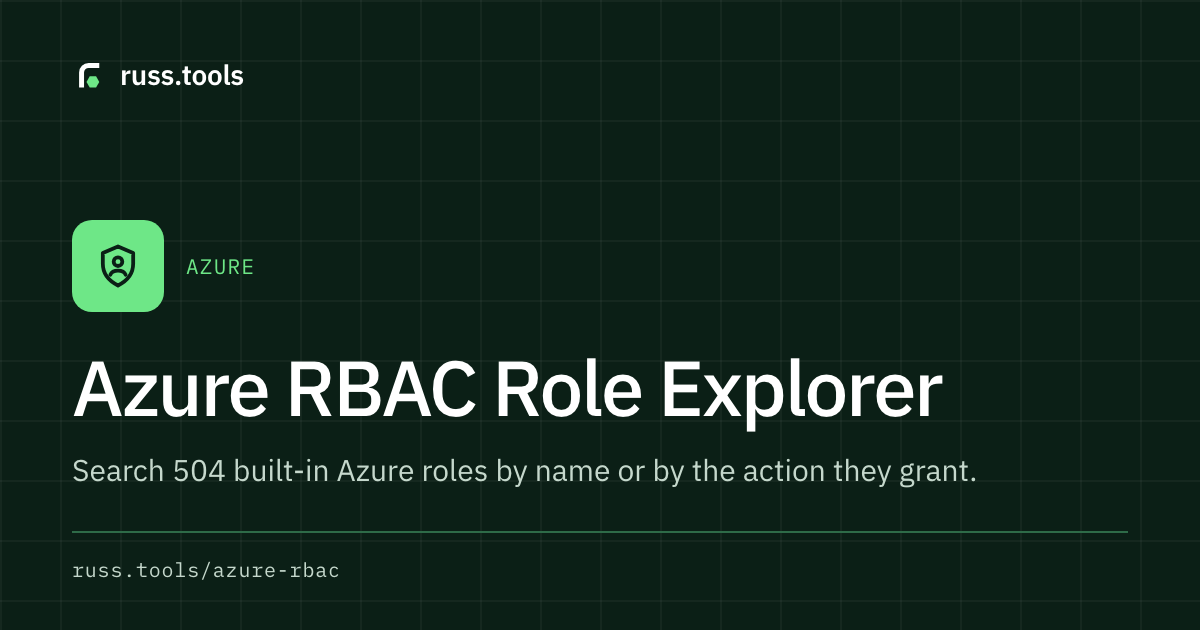
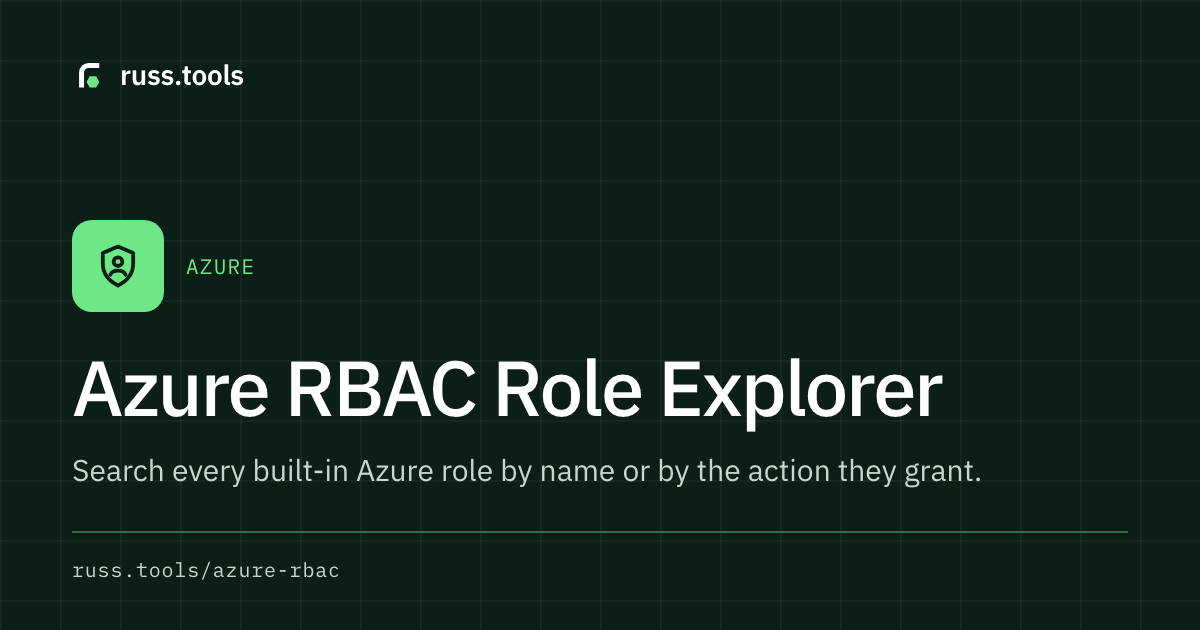
🔄 feat(data): refresh the bundled datasets weekly
- `pnpm refresh:all` runs every `refresh:*` script found in package.json.
  A script that fails has its writes under `src/data` put back and the
  rest carry on.
- `.github/workflows/refresh-data.yml` runs it on Mondays, regenerates
  the derived tables, and if anything changed builds, tests and lints
  the tree and opens or updates a pull request on `chore/data-refresh`.
- The help pages for Azure Regions, RBAC, Service Tags and M365 Licences
  no longer tell visitors to run pnpm or list repository paths. The
  regions source list moved to that tool's implementation notes.
- The RBAC manifest no longer types a role count ("504"); upstream is
  already at 506 and the tool reports the real number from the data.

Changed region(s): [[0.1233, 0.7238, 0.8325, 0.7841]]

diff --git a/src/tools/azure-rbac/island.jsx b/src/tools/azure-rbac/island.jsx
@@ -392,7 +392,7 @@ const AzureRbacTool = () => {
   );
 };
 
-/** A searchable role picker. The list is 504 long, so it is capped and the
+/** A searchable role picker. The list is some five hundred long, so it is capped and the
  * label says so rather than silently truncating. */
 function RolePicker({ label, roles, value, onChange }) {
   const sorted = useMemo(() => [...roles].sort((a, b) => a.name.localeCompare(b.name)), [roles]);

diff --git a/docs/tools/azure-regions/README.md b/docs/tools/azure-regions/README.md
@@ -65,18 +65,6 @@ Regional availability and prices come from Azure's Resource SKUs and Retail Pric
 
 A handful of rows carry typing mistakes from the source articles (a missing family letter, for example). They are kept as published rather than corrected by hand.
 
-## Data freshness
-
-`pnpm refresh:azure-regions` rewrites both datasets from:
-
-- `https://learn.microsoft.com/en-us/azure/reliability/regions-list` for regions
-- `https://datacenters.microsoft.com/globe/data/geo/regions.json` for region coordinates
-- Natural Earth's 1:110m land outline (`nvkelso/natural-earth-vector`, public domain) for the map
-- the series articles in `MicrosoftDocs/azure-compute-docs` under `articles/virtual-machines/sizes` for sizes
-- `articles/virtual-machines/vm-naming-conventions.md` and `sizes/overview.md` in the same repository for the letter meanings and families
-
-The fetch date of each is shown at the top of the tool. Check it before relying on a figure for a production change.
-
 ## Privacy and saved data
 
 Searches stay in the browser. The tool does not use localStorage and makes no network lookups.
@@ -84,6 +72,13 @@ Searches stay in the browser. The tool does not use localStorage and makes no ne
 <!-- help:end -->
 
 ## Implementation notes
+
+- Data sources, re-pulled by `pnpm refresh:azure-regions` (and weekly by `.github/workflows/refresh-data.yml`):
+  - `https://learn.microsoft.com/en-us/azure/reliability/regions-list` for regions
+  - `https://datacenters.microsoft.com/globe/data/geo/regions.json` for region coordinates
+  - Natural Earth's 1:110m land outline (`nvkelso/natural-earth-vector`, public domain) for the map
+  - the series articles in `MicrosoftDocs/azure-compute-docs` under `articles/virtual-machines/sizes` for sizes
+  - `articles/virtual-machines/vm-naming-conventions.md` and `sizes/overview.md` in the same repository for the letter meanings and families
 
 - `lib/regions.js` and `lib/vmSizes.js` are pure functions over the two JSON files in `src/data/azure/`.
 - `lib/map.js` holds the Equal Earth projection and the zoom and pan arithmetic. The refresh script imports its `project()` to draw the land outline, so the outline and the markers cannot disagree.

diff --git a/docs/plans/redesign-plan.md b/docs/plans/redesign-plan.md
@@ -4001,3 +4001,32 @@ over: both branches had independently written 33 for the tool count in the
 registry and e2e tests, so git merged them without complaint and every one of
 those numbers was two short. The paste panel's GUID order is unchanged beside
 the new URL and domain rules.
+
+### 2026-11-14 — A weekly data refresh, and no more typed counts
+
+The owner read the Azure Regions help, which told visitors to run
+`pnpm refresh:azure-regions` and listed repository paths, and asked for that
+section to go and for the data to refresh itself weekly.
+
+`scripts/refresh-all.mjs` (`pnpm refresh:all`) runs every `refresh:*` script
+found in package.json, so a new one needs no registration. A script that
+fails has whatever it wrote under `src/data` put back, and the rest carry on.
+`.github/workflows/refresh-data.yml` runs it on Mondays, regenerates the
+tables and llms files, and if anything changed builds, tests and lints the
+tree and opens (or updates) a pull request on `chore/data-refresh`. It is a
+GitHub Actions schedule and not a Cloudflare Worker because the datasets are
+files in the repository that the static build bundles: a Worker would have to
+commit through the GitHub API to do the same thing, or the tools would have to
+fetch their data at run time, which they deliberately do not.
+
+The help pages for Azure Regions, RBAC, Service Tags and M365 Licences no
+longer mention `pnpm` or repository paths; the regions source list moved to
+that tool's implementation notes. The RBAC manifest said "504 built-in roles"
+in three places; upstream is already at 506, so the count is gone from the
+manifest and the tool reports the real number from the data.
+
+Run locally: all six scripts complete without credentials in under a minute;
+three datasets had changed upstream; build and tests pass on the refreshed
+tree. The failure path was exercised with a script that wrote and then exited
+non-zero. The workflow itself has not run on GitHub.
+

diff --git a/README.md b/README.md
@@ -24,7 +24,7 @@ documentation states its boundary explicitly.
 | **Subnet Calculator** | Network | IPv4 and IPv6 subnet details, with a visual split-and-join divide table. | `/subnet-calculator` | [Docs](docs/tools/subnet-calculator/) |
 | **WHOIS Lookup Tool** | Network | Registration and ownership detail for domains and IPs. | `/whois-lookup` | [Docs](docs/tools/whois-lookup/) |
 | **Azure KQL Query Builder** | Azure | Build Log Analytics queries from scenarios with typed filters. | `/azure-kql` | [Docs](docs/tools/azure-kql/) |
-| **Azure RBAC Role Explorer** | Azure | Search 504 built-in Azure roles by name or by the action they grant. | `/azure-rbac` | [Docs](docs/tools/azure-rbac/) |
+| **Azure RBAC Role Explorer** | Azure | Search every built-in Azure role by name or by the action they grant. | `/azure-rbac` | [Docs](docs/tools/azure-rbac/) |
 | **Azure Regions and VM Sizes** | Azure | Look up Azure regions, their pairs and zones, and decode VM size names. | `/azure-regions` | [Docs](docs/tools/azure-regions/) |
 | **Azure Resource Naming Tool** | Azure | Generate and validate names against Microsoft CAF rules. | `/azure-naming` | [Docs](docs/tools/azure-naming/) |
 | **Azure Service Tags** | Azure | Search and compare Microsoft Azure service-tag IP ranges. | `/azure-service-tags` | [Docs](docs/tools/azure-service-tags/) |

diff --git a/docs/README.md b/docs/README.md
@@ -18,7 +18,7 @@ network, cloud and platform work.
 | **Subnet Calculator** | Network | IPv4 and IPv6 subnet details, with a visual split-and-join divide table. | `/subnet-calculator` | [Docs](tools/subnet-calculator/) |
 | **WHOIS Lookup Tool** | Network | Registration and ownership detail for domains and IPs. | `/whois-lookup` | [Docs](tools/whois-lookup/) |
 | **Azure KQL Query Builder** | Azure | Build Log Analytics queries from scenarios with typed filters. | `/azure-kql` | [Docs](tools/azure-kql/) |
-| **Azure RBAC Role Explorer** | Azure | Search 504 built-in Azure roles by name or by the action they grant. | `/azure-rbac` | [Docs](tools/azure-rbac/) |
+| **Azure RBAC Role Explorer** | Azure | Search every built-in Azure role by name or by the action they grant. | `/azure-rbac` | [Docs](tools/azure-rbac/) |
 | **Azure Regions and VM Sizes** | Azure | Look up Azure regions, their pairs and zones, and decode VM size names. | `/azure-regions` | [Docs](tools/azure-regions/) |
 | **Azure Resource Naming Tool** | Azure | Generate and validate names against Microsoft CAF rules. | `/azure-naming` | [Docs](tools/azure-naming/) |
 | **Azure Service Tags** | Azure | Search and compare Microsoft Azure service-tag IP ranges. | `/azure-service-tags` | [Docs](tools/azure-service-tags/) |

diff --git a/docs/tools/azure-rbac/README.md b/docs/tools/azure-rbac/README.md
@@ -1,6 +1,6 @@
 # Azure RBAC Role Explorer
 
-Search Azure's 504 built-in RBAC roles by name or by the action they grant, compare two roles, and export a custom role definition — without a subscription, a token, or a `az` login.
+Search Azure's built-in RBAC roles by name or by the action they grant, compare two roles, and export a custom role definition — without a subscription, a token, or a `az` login.
 
 <!-- help:start -->
 
@@ -37,7 +37,7 @@ Treat it as a **ranking, not a verdict**. The catalogue only contains operations
 
 The role definitions are parsed from Microsoft's published built-in roles reference — 19 category pages, each carrying the real ARM definition for every role. The generated date is shown under the search box, and the data ships with the page, so nothing you search for leaves the browser.
 
-Because it is a snapshot, a role added by Microsoft last week may not be present yet. Run `pnpm refresh:azure-rbac` to re-pull. Reference data is © Microsoft and used under CC-BY-4.0.
+It is a snapshot, re-pulled from Microsoft's reference weekly, so a role Microsoft added in the last few days may not be present yet. Reference data is © Microsoft and used under CC-BY-4.0.
 
 ## Troubleshooting
 

diff --git a/docs/tools/m365-licenses/README.md b/docs/tools/m365-licenses/README.md
@@ -30,9 +30,9 @@ The **By service plan** tab answers the question Microsoft's own reference page 
 
 ## Where the data comes from
 
-The tool ships Microsoft's published *Product names and service plan identifiers for licensing* reference — 620 SKUs and 796 service plans — normalised into a single JSON file that loads with the page. The date it was generated is shown under the search box.
+The tool ships Microsoft's published *Product names and service plan identifiers for licensing* reference, normalised into a single JSON file that loads with the page. The date it was generated is shown under the search box.
 
-Because the data is bundled, **nothing you type leaves the browser** and the tool works offline. The trade-off is that it is a snapshot: a licence Microsoft announced last week may not be in it yet. Run `pnpm refresh:m365-licenses` to re-pull the source.
+Because the data is bundled, **nothing you type leaves the browser** and the tool works offline. The trade-off is that it is a snapshot, re-pulled from Microsoft's reference weekly: a licence Microsoft announced in the last few days may not be in it yet.
 
 The reference data is © Microsoft and used under CC-BY-4.0.
 

diff --git a/AGENTS.md b/AGENTS.md
@@ -204,6 +204,12 @@ lockfile is `pnpm-lock.yaml`. A stale, gitignored `package-lock.json` may linger
   home-screen PNGs from `src/shell/SiteMark.astro` and the token layer (Playwright; commits them).
   Run both after changing the mark or the band / accent colours.
 - `pnpm generate:docs` — regenerate the tool tables in `README.md` and `docs/README.md`
+- `pnpm refresh:all` — run every `refresh:*` script (the bundled Microsoft datasets under
+  `src/data/`). `.github/workflows/refresh-data.yml` runs it weekly and opens a pull request
+  with whatever changed; a script that fails leaves its data untouched and the rest carry on.
+  **Never type a count that comes from a refreshed dataset into a manifest, help page or
+  comment** — "504 built-in roles" was wrong within a week of the job existing. Compute it in
+  the tool, where the data is.
 
 > If a bare `pnpm <script>` fails with a `runDepsStatusCheck` / ignored-builds error,
 > run the tool binary directly (`./node_modules/.bin/eslint .`) or `pnpm approve-builds`.

diff --git a/docs/DEVELOPMENT.md b/docs/DEVELOPMENT.md
@@ -44,6 +44,7 @@ Every script below exists in `package.json`.
 | `pnpm generate:tokens` | `scripts/generate-tokens.mjs` | Regenerate `src/styles/tokens.generated.css` after editing `DESIGN.md`. Needs network access. |
 | `pnpm generate:og` | `scripts/generate-og.mjs` | Regenerate the committed Open Graph cards in `public/og/`. |
 | `pnpm generate:icons` | `scripts/generate-icons.mjs` | Regenerate `logo.svg`, `favicon.ico` and the touch and home-screen PNGs from `SiteMark.astro`. |
+| `pnpm refresh:all` | `scripts/refresh-all.mjs` | Run every `refresh:*` script and report what changed. The weekly `refresh-data` workflow runs this and opens a pull request. |
 | `pnpm generate:docs` | `scripts/generate-docs.mjs` | Regenerate the tool tables in `README.md` and `docs/README.md`. |
 
 ## The lookup API locally

diff --git a/docs/tools/azure-service-tags/README.md b/docs/tools/azure-service-tags/README.md
@@ -22,7 +22,7 @@ Load an older Microsoft service-tags JSON file to see prefixes added and removed
 
 ## Data freshness
 
-The dataset is refreshed from Microsoft’s official download page with `pnpm refresh:azure-service-tags`. Each refresh records the source URL, date, global change number and per-tag metadata. The refresh script refuses an unexpectedly large tag-count drop as a guard against publishing a partial response.
+The dataset is re-pulled from Microsoft’s official download page weekly. The snapshot’s date and global change number are shown under the search box.
 
 This is published reference data, not a live Azure control-plane API. Check the displayed snapshot date before using the ranges in a production change.
 
